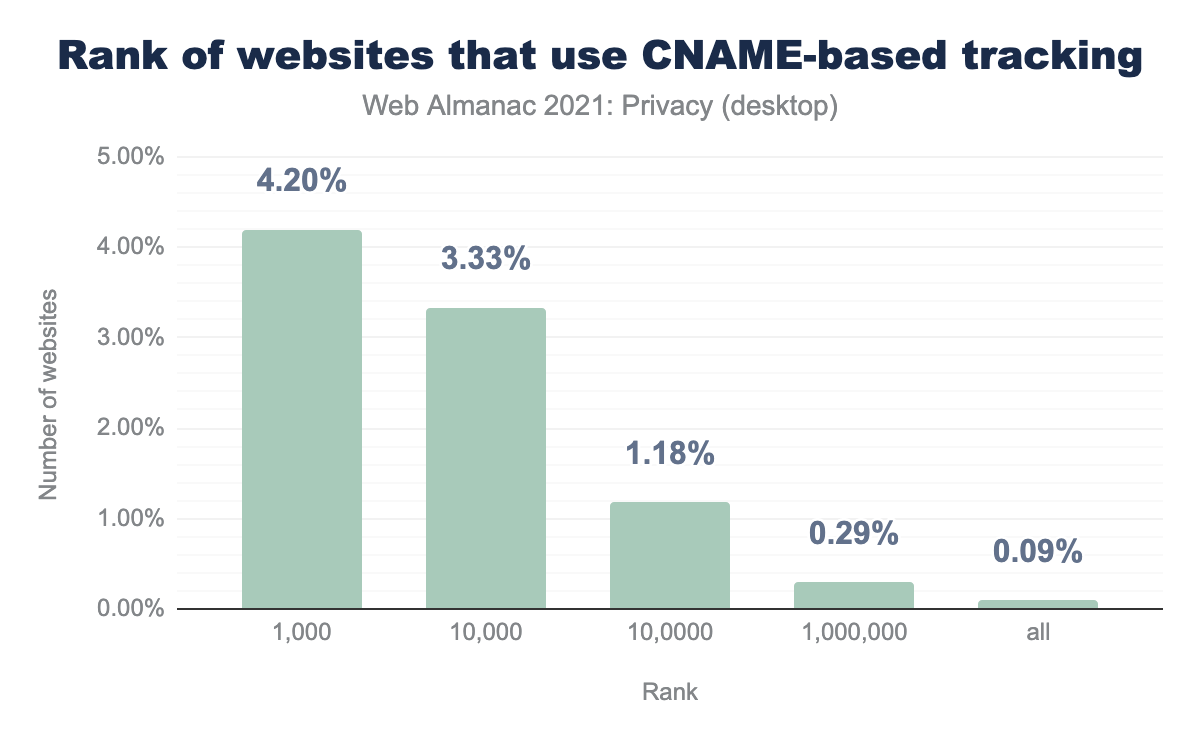
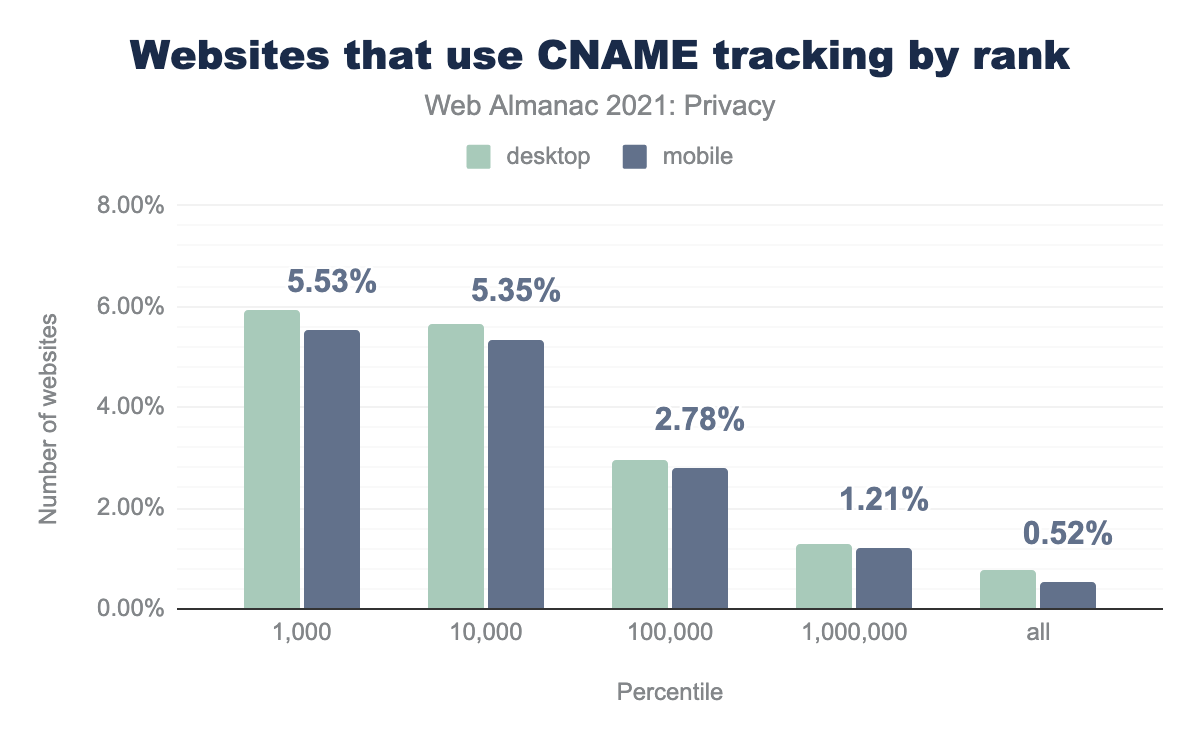
Change CNAME stats to be % based

diff --git a/src/content/en/2021/privacy.md b/src/content/en/2021/privacy.md
@@ -44,7 +44,7 @@ Online tracking is often done through third-party libraries. These libraries usu
 
 {{ figure_markup(
   image="most_common_trackers.png",
-  caption="10 most popular trackers and their prevalence",
+  caption="10 most popular trackers and their prevalenc.",
   description="Bar chart showing the 10 most popular trackers and the percentage of mobile and desktop websites that include them. Google_analytics (site_analytics) is used on 66.01% of desktop and 62.53% of mobile sites, google (advertising) on 50.89% and 49.51% respectively, doubleclick (advertising) on 49.99% and 47.51%, facebook (advertising) on 30.71% and 29.04%, google_adservices (advertising) on 21.17% and 19.98%, google_syndication (advertising) on 11.12% and 11.91%, wordpress_stats (site_analytics) on 6.63% and 6.79%, twitter (social_media) on 6.42% and 5.48%, adobe_audience_manager (advertising) on 4.35% and 5.49%, and finally yandex (advertising) on 4.50% and 5.28%.",
   chart_url="https://docs.google.com/spreadsheets/d/e/2PACX-1vRfOwcNkLp-mYBkmhDV5AFxl8p0ls9oxFnmmo0WUcAJxjxQqmHjquRZCWj_lNZRyFtX3RdH5T92IESu/pubchart?oid=290736860&format=interactive",
   sheets_gid="1466954359",
@@ -58,7 +58,7 @@ We see that Google-owned domains are prevalent in the online tracking market. Go
 
 {{ figure_markup(
   image="most_common_tracker_categories.png",
-  caption="Most common tracker categories",
+  caption="Most common tracker categorie.",
   description="Bar chart showing the most popular tracker categories and the number of websites embedding a tracker from that category. 83.33% of desktop sites and 82.08% of mobile sites us a tracker. `site_analytics` is used on 73.53% and 70.46% respectively, `advertising` on 68.83% and 67.99%, `social_media` on 12.89% and 11.66%, and finally `pornvertising` on 0.56% and 0.60%.",
   chart_url="https://docs.google.com/spreadsheets/d/e/2PACX-1vRfOwcNkLp-mYBkmhDV5AFxl8p0ls9oxFnmmo0WUcAJxjxQqmHjquRZCWj_lNZRyFtX3RdH5T92IESu/pubchart?oid=1126546581&format=interactive",
   sheets_gid="2084631443",
@@ -72,7 +72,7 @@ Overall, 82.08% of mobile sites and 83.33% of desktop sites include at least one
 
 {{ figure_markup(
   image="nb_websites_with_nb_trackers.png",
-  caption="The number of trackers per website",
+  caption="The number of trackers per websit.",
   description="Line chart showing the number of trackers per website starting at 15.62% of desktop sites and 16.31% of mobile sites having one tracker and curving down past 9.30% and 8.64% respectively for 5%, 0.38% and 0.41% for 15 trackers and then a long tail cut off at 0.12% and 0.15% for 25 trackers. Mobile and desktop have near identical numbers throughout.",
   chart_url="https://docs.google.com/spreadsheets/d/e/2PACX-1vRfOwcNkLp-mYBkmhDV5AFxl8p0ls9oxFnmmo0WUcAJxjxQqmHjquRZCWj_lNZRyFtX3RdH5T92IESu/pubchart?oid=268105548&format=interactive",
   sheets_gid="690197217",
@@ -102,7 +102,7 @@ Google's subsidiary DoubleClick takes the top spot by setting cookies on 31.4% o
 
 {{ figure_markup(
   image="top100_cookies_set_from_header.png",
-  caption="Top 10 cookies set from header",
+  caption="Top 10 cookies set from heade.",
   description="Chart showing the name of the cookies set on the largest number of websites. These cookies seem to be set more often on desktop sites than mobile. `test_cookie` for doubleclick.net is used by 30.20% of desktop sites and 28.66% of mobile sites, `fr` for facebook.com by 23.04% and 20.96% respectively, `IDE` for doubleclick.net by 18.03% and 16.96%, `NID` for google.com by 4.92% and 5.09%, `yandexuid` for yandex.ru by 4.38% and 5.14%, `yuidss` for yandex.ru by 4.38% and 5.14%, `i` for yandex.ru by 4.34% and 5.09%, `ymex` for yandex.ru by 4.32% and 5.08%, `yabs-sid` for yandex.ru by 4.32% and 5.08%, `TDID` for adsrvr.org by 3.71% and 3.89%.",
   chart_url="https://docs.google.com/spreadsheets/d/e/2PACX-1vRfOwcNkLp-mYBkmhDV5AFxl8p0ls9oxFnmmo0WUcAJxjxQqmHjquRZCWj_lNZRyFtX3RdH5T92IESu/pubchart?oid=2052032481&format=interactive",
   sheets_gid="1599373042",
@@ -126,7 +126,7 @@ Detecting fingerprinting is complex: it is effective through a combination of me
 
 {{ figure_markup(
   image="nb_websites_using_each_fingerprinting.png",
-  caption="Websites using each fingerprinting library",
+  caption="Websites using each fingerprinting librar.",
   description="Chart showing the percentage of websites that include each of the third-party fingerprinting libraries. FingerprintJS is used by 0.74% of desktop sites and 0.64% of mobile sites, ClientJS by 0.04% and 0.04% respectively, MaxMind by 0.03% and 0.02%, TruValidate by 0.03% and 0.02%, ThreatMetrix by 0.00% and 0.00%.",
   chart_url="https://docs.google.com/spreadsheets/d/e/2PACX-1vRfOwcNkLp-mYBkmhDV5AFxl8p0ls9oxFnmmo0WUcAJxjxQqmHjquRZCWj_lNZRyFtX3RdH5T92IESu/pubchart?oid=1537414997&format=interactive",
   sheets_gid="1785016530",
@@ -139,48 +139,45 @@ From the percentage of websites using these third-party services, we can see tha
 ### CNAME tracking
 
 Continuing with techniques that circumvent blocks on third-party tracking, <a hreflang="en" href="https://medium.com/nextdns/cname-cloaking-the-dangerous-disguise-of-third-party-trackers-195205dc522a">CNAME tracking</a> is a novel approach where a first-party subdomain masks the use of a third-party service using a CNAME record at the [DNS level](https://adguard.com/en/blog/cname-tracking.html). From the viewpoint of the browser, everything happens within a first-party context, so none of the third-party countermeasures are applied. Major tracking companies such as Adobe and Oracle are <a hreflang="en" href="https://sciendo.com/article/10.2478/popets-2021-0053">already offering CNAME tracking solutions</a> to their customers.
-For the results on CNAME-based tracking included in this chapter, we refer to [research](https://arxiv.org/pdf/2102.09301.pdf) completed by Y. Dimova and others where we developed a method to detect CNAME-based tracking, based on DNS data and request data from HTTP Archive. 
+For the results on CNAME-based tracking included in this chapter, we refer to [research](https://arxiv.org/pdf/2102.09301.pdf) completed by one of this chapters authors (and others) where we developed a method to detect CNAME-based tracking, based on DNS data and request data from HTTP Archive.
 
 {{ figure_markup(
   image="nb_sites_with_cname_tracking.png",
-  caption="Websites using CNAME-based tracking on a desktop client",
-  description="Chart showing the number of websites that use a CNAME-based tracker, ordered by the popularity of the tracker. Pardot is used on 6,619 sites, Adobe Experience Cloud on 2,671, Act-On Software on 869, Oracle Eloqua on 442, Eulerian on 213, Webtrekk on 101, Ingenious Technologies on 40, AT Internet on 34, Tracedock on 28, Wizaly on 15, Criteo on 15, and finally Keyade on 11.",
-  chart_url="https://docs.google.com/spreadsheets/d/e/2PACX-1vRfOwcNkLp-mYBkmhDV5AFxl8p0ls9oxFnmmo0WUcAJxjxQqmHjquRZCWj_lNZRyFtX3RdH5T92IESu/pubchart?oid=1887798671&format=interactive",
+  caption="Websites using CNAME-based tracking on a desktop clien.",
+  description="Chart showing the number of websites that use a CNAME-based tracker, ordered by the popularity of the tracker. Adobe Experience Cloud is used on 0.59% of desktop sites and 0.41% of mobile sites, Pardot on 0.41% and 0.26% respectively, Oracle Eloqua on 0.05% and 0.03%, Act-On Software on 0.05% and 0.03%, Webtrekk on 0.01% and 0.01%, and finally Eulerian on 0.01% and 0.01%.",
+  chart_url="https://docs.google.com/spreadsheets/d/e/2PACX-1vRfOwcNkLp-mYBkmhDV5AFxl8p0ls9oxFnmmo0WUcAJxjxQqmHjquRZCWj_lNZRyFtX3RdH5T92IESu/pubchart?oid=450379066&format=interactive",
   sheets_gid="1286114815",
   sql_file="nb_sites_with_cname_tracking.sql"
   )
 }}
 
+The most popular company performing CNAME-based tracking is Adobe, which is present on 0.59% of desktop websites, and 0.41% of mobile websites. Also notable in size is <a hreflang="en" href="https://www.pardot.com/">Pardot</a>, with 0.41% and 0.26% respectively.
 
-The most popular company performing CNAME-based tracking is <a hreflang="en" href="https://www.pardot.com/">Pardot</a>, which is present on 6,619 desktop websites. Also notable in size is Adobe, with 2,671 publisher domains.
-
-Those numbers may seem a small percentage of our 6.2 million websites crawled on desktop, but that opinion changes when segregating the data by site popularity.
+Those numbers may seem a small percentage, but that opinion changes when segregating the data by site popularity.
 
 {{ figure_markup(
   image="nb_sites_with_cname_tracking_per_rank.png",
-  caption="Number of desktop websites that use CNAME-based tracking according to their rank.",
-  description="Chart showing the number of websites that use CNAME-based tracking divided by their popularity rank on the desktop client. Of the top 1,000 sites, 4.20% use CNAME-based tracking, for the top 10,000 it's 3.33%, for top 10,0000 it's 1.18%, for the top million it's 0.29%, and finally for all sites it's 0.09%.",
-  chart_url="https://docs.google.com/spreadsheets/d/e/2PACX-1vRfOwcNkLp-mYBkmhDV5AFxl8p0ls9oxFnmmo0WUcAJxjxQqmHjquRZCWj_lNZRyFtX3RdH5T92IESu/pubchart?oid=1885483390&format=interactive",
+  caption="Websites that use CNAME tracking by rank.",
+  description="Chart showing the number of websites that use CNAME-based tracking split by their popularity rank. Of the top 1,000 sites, 5.91% of desktop sites, and 5.53% of mobile sites use CNAME-based tracking, for the top 10,000 it's 5.67% and 5.35%, for top 100,0000 it's 2.95% and 2.78%, for the top million it's 1.31% and 1.21%, and finally for all sites it's 0.79 and 0.52%.",
+  chart_url="https://docs.google.com/spreadsheets/d/e/2PACX-1vRfOwcNkLp-mYBkmhDV5AFxl8p0ls9oxFnmmo0WUcAJxjxQqmHjquRZCWj_lNZRyFtX3RdH5T92IESu/pubchart?oid=2129255642&format=interactive",
   sheets_gid="518784663",
   sql_file="nb_sites_with_cname_tracking_per_rank.sql"
   )
 }}
 
-
-When we look at the rank of the websites that use CNAME-based tracking, we see that 4.20% of the top 1,000 websites embed a CNAME tracker. In the top 10,000, that number falls to 3.33% of websites.
+When we look at the rank of the websites that use CNAME-based tracking, we see that 5.53% of the top 1,000 websites on mobile embed a CNAME tracker. In the top 100,000, that number falls to 2.78% of websites, and when looking at the full data set it falls to 0.52%.
 
 {{ figure_markup(
   image="nb_sites_with_cname_tracking_per_public_suffix.png",
-  caption="Number of desktop websites with public suffix that use CNAME-based tracking",
-  description="Chart showing the number of websites that use CNAME-based tracking on a desktop client, according to the public suffix of the website. `com` for 6,751 sites, `co.jp` for 656 sites, `org` for 476 sites, `jp` for 363 sites, `com.au` for 297 sites, `ca` for 247 sites, `co.uk` for 188 sites, `de` for 160 sites, `net` for 153 sites, and `fr` for 132.",
-  chart_url="https://docs.google.com/spreadsheets/d/e/2PACX-1vRfOwcNkLp-mYBkmhDV5AFxl8p0ls9oxFnmmo0WUcAJxjxQqmHjquRZCWj_lNZRyFtX3RdH5T92IESu/pubchart?oid=432551848&format=interactive",
+  caption="Public suffix of sites with CNAME-based tracking.",
+  description="Chart showing the number of websites that use CNAME-based tracking on a desktop client, according to the public suffix of the website. 0.64% of desktop websites and 0.42% of mobile websites with a `com` suffix use CNAME track, for `edu` it's 0.18% and 0.10% respectively, for `jp` it's 0.03% and 0.04%, for `org` 0.04% and 0.03%, for `co.jp` 0.03% and 0.02%, for `ca` 0.02% and 0.01%, for `de` 0.02% and 0.02%, for `ru` 0.01% and 0.01%, for `com.au` 0.02% and 0.01%, and finally for `edu.au` 0.02% and 0.01%.",
+  chart_url="https://docs.google.com/spreadsheets/d/e/2PACX-1vRfOwcNkLp-mYBkmhDV5AFxl8p0ls9oxFnmmo0WUcAJxjxQqmHjquRZCWj_lNZRyFtX3RdH5T92IESu/pubchart?oid=1816699194&format=interactive",
   sheets_gid="1155429637",
   sql_file="nb_sites_with_cname_tracking_per_public_suffix.sql"
   )
 }}
 
-
-Apart from the `.com` suffix, a large number of the websites using CNAME-based tracking have a `.jp` domain. Also, a notable amount of CNAME trackers are prevalent on `.uk` and `.fr` websites.
+Apart from the `.com` suffix, a large number of the websites using CNAME-based tracking have a `.edu` domain. Also, a notable amount of CNAME trackers are prevalent on `.jp` and `.org` websites.
 
 CNAME-based tracking can be a counter measure to when the user might have enabled tracking protection against third-party tracking. Since few tracker-blocking tools and <a hreflang="en" href="https://www.cookiestatus.com/">browsers</a> have already implemented a defense against CNAME tracking, it is prevalent on a number of websites up to date.
 
@@ -190,7 +187,7 @@ Advertisement retargeting refers to the practice of keeping track of the product
 
 {{ figure_markup(
   image="nb_websites_using_each_retargeting.png",
-  caption="Percentage of pages using a retargeting service",
+  caption="Percentage of pages using a retargeting servic.",
   description="Bar chart showing the most popular services used for retargeting and the number of websites that use them. Google Remarketing Tag is used by 26.92% of desktop sites and 26.64% of mobile sites, Criteo by 1.25% and 1.21% respectively, AdRoll by 0.48% and 0.38%, SharpSpring Ads by 0.12% and 0.09%, Albacross by 0.04% and 0.03%, SteelHouse by 0.03% and 0.02%, Smarter Click by 0.02% and 0.01%, Blue by 0.02% and 0.01%, Cross Pixel by 0.02% and 0.01%, and finally Picreel by 0.01% and 0.01%",
   chart_url="https://docs.google.com/spreadsheets/d/e/2PACX-1vRfOwcNkLp-mYBkmhDV5AFxl8p0ls9oxFnmmo0WUcAJxjxQqmHjquRZCWj_lNZRyFtX3RdH5T92IESu/pubchart?oid=882622568&format=interactive",
   sheets_gid="1940290757",
@@ -215,7 +212,7 @@ Sensors can be useful to make a website more interactive but could also be abuse
 
 {{ figure_markup(
   image="nb_websites_with_device_sensor_events.png",
-  caption="5 most used sensor events",
+  caption="5 most used sensor event.",
   description="Bar chart showing the most widely accessed sensor events, based on the use of JavaScript listeners. `deviceOrientation` is found on 3.32% of desktop sites and 3.23% of mobile sites, `deviceReady` on 1.12% and 1.23%, `devicemotion` on 0.65% and 0.66%, `deviceChange` on 0.03% and 0.02%, and finally `deviceproximity` on 0.03% and 0.02%.",
   chart_url="https://docs.google.com/spreadsheets/d/e/2PACX-1vRfOwcNkLp-mYBkmhDV5AFxl8p0ls9oxFnmmo0WUcAJxjxQqmHjquRZCWj_lNZRyFtX3RdH5T92IESu/pubchart?oid=40988621&format=interactive",
   sheets_gid="1513080238",
@@ -244,7 +241,7 @@ Geolocation services provide GPS and other location data (such as [IP address](h
 
 {{ figure_markup(
   image="nb_websites_using_each_geolocation.png",
-  caption="Percentage of websites that use geolocation services",
+  caption="Percentage of websites that use geolocation service.",
   description="Chart that shows the percentage of websites using each of the geolocation service libraries. ipify is used by 0.09% of desktop sites and 0.07% of mobile sites, MaxMind by 0.03% and 0.02% respectively, db-ip by 0.01% and 0.01%, and finally ipstack by 0.01% and 0.01%.",
   chart_url="https://docs.google.com/spreadsheets/d/e/2PACX-1vRfOwcNkLp-mYBkmhDV5AFxl8p0ls9oxFnmmo0WUcAJxjxQqmHjquRZCWj_lNZRyFtX3RdH5T92IESu/pubchart?oid=2115506749&format=interactive",
   sheets_gid="1274602607",
@@ -256,7 +253,7 @@ We find that the most popular service, <a hreflang="en" href="https://www.ipify.
 
 {{ figure_markup(
   image="nb_websites_with_geolocation_blink_usage.png",
-  caption="Percentage of websites that use geolocation features",
+  caption="Percentage of websites that use geolocation feature.",
   description="Bar chart that shows the percentage of websites using each geolocation feature. `GeolocationGetCurrentPosition` is used by 0.59% of desktop sites and 0.63% of mobile sites, `GeolocationSecureOrigin` by 0.59% and 0.62% respectively, `GeolocationInsecureOrigin` by 0.01% and 0.02%, `GeolocationWatchPosition` by 0.02% and 0.02%, `GeolocationSecureOriginIframe` by 0.02% and 0.02%, `GeolocationDisabledByFeaturePolicy` by 0.02% and 0.01%, and finally `GeolocationInsecureOriginIframe` by 0.00% and 0.01%.",
   chart_url="https://docs.google.com/spreadsheets/d/e/2PACX-1vRfOwcNkLp-mYBkmhDV5AFxl8p0ls9oxFnmmo0WUcAJxjxQqmHjquRZCWj_lNZRyFtX3RdH5T92IESu/pubchart?oid=1513111756&format=interactive",
   sheets_gid="1110372680",
@@ -274,7 +271,7 @@ Poor security management within a company can have a significant impact on its c
 
 {{ figure_markup(
   image="data_breaches_pwned_accounts_per_class.png",
-  caption="Number of impacted accounts in breaches per data class",
+  caption="Number of impacted accounts in breaches per data clas.",
   description="Bar chart showing the number of user accounts involved in data breaches, according to the data class that leaked in the breach. 641 million Email addresses were included in breaches, 428 million Passwords, 369 million Names, 173 million Geographic locations, 149 million Phone numbers, 149 million Genders, 134 million Social media profiles, 127 million Education levels, 126 million Job titles, and finally 110 million Physical addresses.",
   chart_url="https://docs.google.com/spreadsheets/d/e/2PACX-1vRfOwcNkLp-mYBkmhDV5AFxl8p0ls9oxFnmmo0WUcAJxjxQqmHjquRZCWj_lNZRyFtX3RdH5T92IESu/pubchart?oid=1612339126&format=interactive",
   sheets_gid="1158689200",
@@ -294,7 +291,7 @@ The <a hreflang="en" href="https://www.w3.org/TR/permissions-policy-1/">Permissi
 
 {{ figure_markup(
   image="most_common_featurepolicy_permissionspolicy_directives.png",
-  caption="Number of websites accessing a feature policy directive",
+  caption="Number of websites accessing a feature policy directiv.",
   description="Bar chart showing the most common directives used to define the feature policy and the number of websites that are using them. `geolocation` is used by 2,222 desktop sites and 2,323 mobile sites, `microphone` by 2,199 and 2,310 respectively, `camera` by 2,082 and 2,197, `payment` by 1,748 and 1,879, `usb` by 1,354 and 1,492, `gyroscope` by 1,145 and 1,025, `magnetometer` by 1,141 and 1,024, `interest-cohort` by 1,037 and 1,019, `fullscreen` by 940 and 873, `accelerometer` by 892 and 852.",
   chart_url="https://docs.google.com/spreadsheets/d/e/2PACX-1vRfOwcNkLp-mYBkmhDV5AFxl8p0ls9oxFnmmo0WUcAJxjxQqmHjquRZCWj_lNZRyFtX3RdH5T92IESu/pubchart?oid=820718961&format=interactive",
   sheets_gid="899874026",
@@ -310,7 +307,7 @@ To gain a deeper understanding of how the directives are used, we looked at the 
 
 {{ figure_markup(
   image="most_common_featurepolicy_permissionspolicy_directive_values.png",
-  caption="Values used for the most popular feature policy directives",
+  caption="Values used for the most popular feature policy directive.",
   description="Bar chart showing the distribution of the values assigned to the 3 most popular directives for the feature policy. `microphone` is set to `self` for 0.08% of mobile sites, it is set to `none` for 0.49% of sites, and is set to `*` for 0.03% of sites. `geolocation` is set to `self` for 0.17% of mobile sites, it is set to `none` for 0.34% of sites, and is set to `*` for 0.05% of sites. `camera` is set to `self` for 0.09% of mobile sites, it is set to `none` for 0.46% of sites, and is set to `*` for 0.03% of sites.",
   chart_url="https://docs.google.com/spreadsheets/d/e/2PACX-1vRfOwcNkLp-mYBkmhDV5AFxl8p0ls9oxFnmmo0WUcAJxjxQqmHjquRZCWj_lNZRyFtX3RdH5T92IESu/pubchart?oid=280518522&format=interactive",
   sheets_gid="436267650",
@@ -333,7 +330,7 @@ The `Referer` value can be insightful. But when the full URL including the path 
 
 {{ figure_markup(
   image="nb_websites_with_referrerpolicy.png",
-  caption="Percentage of websites that specify a Referrer Policy",
+  caption="Percentage of websites that specify a Referrer Polic.",
   description="Bar chart showing the percentage of websites that use a Referrer Policy according to how the websites specified the policy. Any referrer policy is set on 11.12% of desktop and 10.38% of mobile sites, Entire document policy on 9.66% and 8.68%, Entire document policy header on 7.37% and 6.49%, Entire document policy meta on 2.65% and 2.51%, Any individual requests on 1.92% and 2.10%, Any link relations on 0.00% and 0.00%",
   chart_url="https://docs.google.com/spreadsheets/d/e/2PACX-1vRfOwcNkLp-mYBkmhDV5AFxl8p0ls9oxFnmmo0WUcAJxjxQqmHjquRZCWj_lNZRyFtX3RdH5T92IESu/pubchart?oid=2144839216&format=interactive",
   sheets_gid="1720798838",
@@ -345,7 +342,7 @@ A first point to note is that most sites do not explicitly set a Referrer Policy
 
 {{ figure_markup(
   image="most_common_referrerpolicy_values.png",
-  caption="Percentage of pages using Referrer Policy values",
+  caption="Percentage of pages using Referrer Policy value.",
   description="Bar chart showing the percentage of pages that use each Referrer Policy value. `no-referrer-when-downgrade` is used on 3.63% of desktop sites and 3.31% of mobile sites, `strict-origin-when-cross-origin` on 1.95% and 1.56% respectively, `always` on 1.08% and 0.82%, `unsafe-url` on 0.47% and 0.52%, `same-origin` on 0.51% and 0.44%, `origin` on 0.39% and 0.51%, `no-referrer` on 0.34% and 0.31%, `origin-when-cross-origin` on 0.31% and 0.29%, `strict-origin` on 0.26% and 0.23%, and finally `no-referrer, strict-origin-when-cross-origin` on 0.09% and 0.08%.",
   chart_url="https://docs.google.com/spreadsheets/d/e/2PACX-1vRfOwcNkLp-mYBkmhDV5AFxl8p0ls9oxFnmmo0WUcAJxjxQqmHjquRZCWj_lNZRyFtX3RdH5T92IESu/pubchart?oid=406890714&format=interactive",
   sheets_gid="1846818406",
@@ -371,7 +368,7 @@ Servers can indicate their support for these Client Hints by specifying the `Acc
 
 {{ figure_markup(
   image="nb_websites_with_user_agent_client_hints.png",
-  caption="Percentage of pages that use user agent Client Hints",
+  caption="Percentage of pages that use user agent Client Hint.",
   description="Bar chart showing the percentage of pages that use user agent Client Hints according to the rank of the website. For the top 1,000 websites it's 3.67% on desktop and 3.56% on mobile, for the top 10,000 it's 1.35% and 1.44% respectively, for the top 100,000 it's 0.40% and 0.42%, for the top 1,000,000 it's 0.14% and 0.15%, and finally for the all sites it's 0.15% and 0.20%.",
   chart_url="https://docs.google.com/spreadsheets/d/e/2PACX-1vRfOwcNkLp-mYBkmhDV5AFxl8p0ls9oxFnmmo0WUcAJxjxQqmHjquRZCWj_lNZRyFtX3RdH5T92IESu/pubchart?oid=2107002085&format=interactive",
   sheets_gid="190615661",
@@ -391,7 +388,7 @@ Therefore, websites turned to the use of cookie consent banners, privacy policie
 
 {{ figure_markup(
   image="nb_websites_with_cmp.png",
-  caption="Percentage of websites that use a Consent Management Platform",
+  caption="Percentage of websites that use a Consent Management Platfor.",
   description="Bar chart showing the percentage of websites that use a third-party library for consent management. 7.10% of desktop sites and 6.97% of mobile sites use a CMP.",
   chart_url="https://docs.google.com/spreadsheets/d/e/2PACX-1vRfOwcNkLp-mYBkmhDV5AFxl8p0ls9oxFnmmo0WUcAJxjxQqmHjquRZCWj_lNZRyFtX3RdH5T92IESu/pubchart?oid=246947280&format=interactive",
   sheets_gid="147308043",
@@ -403,7 +400,7 @@ Consent Management Platforms (CMPs) are third-party libraries that websites can 
 
 {{ figure_markup(
   image="nb_websites_using_each_cmp.png",
-  caption="10 most popular consent management platforms",
+  caption="10 most popular consent management platform.",
   description="Bar chart showing the percentage of pages using the 10 most popular third-party libraries for providing consent management. CookieYes is used on 1.65% of desktop sites and 1.70% of mobile sites, Osano on 1.64% and 1.59% respectively, OneTrust on 0.90% and 0.73%, Cookiebot on 0.74% and 0.64%, AdRoll CMP System on 0.50% and 0.36%, iubenda on 0.34% and 0.35%, Quantcast Choice on 0.37% and 0.34%, Didomi on 0.29% and 0.24%, Usercentrics on 0.18% and 0.19%, and finally HubSpot Cookie Policy Banner on 0.26% and 0.17%.
 ",
   chart_url="https://docs.google.com/spreadsheets/d/e/2PACX-1vRfOwcNkLp-mYBkmhDV5AFxl8p0ls9oxFnmmo0WUcAJxjxQqmHjquRZCWj_lNZRyFtX3RdH5T92IESu/pubchart?oid=619927070&format=interactive",
@@ -424,7 +421,7 @@ TCF is meant as a GDPR-compliant mechanism in Europe, although [a recent decisio
 
 {{ figure_markup(
   image="nb_websites_with_iab.png",
-  caption="Percentage of websites using IAB compliance frameworks",
+  caption="Percentage of websites using IAB compliance framework.",
   description="Bar chart showing the percentage of websites using each compliance framework of both IAB Europe and US. IAB TCF v1 is used on 0.35% of desktop and 0.30% of mobile sites, IAB TCF v2 on 1.58% and 1.49% respectively, IAB TCF any on 1.67% and 1.57%, IAB USP on 3.13% and 3.19%, IAB USP on 3.13% and 3.19%, and finally IAB any on 3.92% and 3.97%.",
   chart_url="https://docs.google.com/spreadsheets/d/e/2PACX-1vRfOwcNkLp-mYBkmhDV5AFxl8p0ls9oxFnmmo0WUcAJxjxQqmHjquRZCWj_lNZRyFtX3RdH5T92IESu/pubchart?oid=1697790298&format=interactive",
   sheets_gid="1662197018",
@@ -436,7 +433,7 @@ Above, we show the distribution of the usage of both versions of TCF and of USP.
 
 {{ figure_markup(
   image="most_common_cmps_for_iab_tcf_v2.png",
-  caption="10 most popular consent management platforms for IAB ",
+  caption="10 most popular consent management platforms for IAB.",
   description="Bar chart showing the 10 most popular consent management platforms used for IAB's compliance frameworks. Quantcast is used on 0.31 of desktop sites and 0.33% of mobile sites, Didomi on 0.29% and 0.24% respectively, Wikia, Inc. on 0.23% and 0.19%, Google LLC on 0.08% and 0.09%, SIRDATA on 0.06% and 0.08%, iubenda on 0.07% and 0.07%, OneTrust LLC on 0.05% and 0.06%, Sourcepoint on 0.05% and 0.05%, consentmanager.net on 0.03% and 0.02%, and finally LiveRamp on 0.02% and 0.01%.",
   chart_url="https://docs.google.com/spreadsheets/d/e/2PACX-1vRfOwcNkLp-mYBkmhDV5AFxl8p0ls9oxFnmmo0WUcAJxjxQqmHjquRZCWj_lNZRyFtX3RdH5T92IESu/pubchart?oid=2085725571&format=interactive",
   sheets_gid="692122193",
@@ -450,7 +447,7 @@ In the USP framework, the website's and user's privacy settings are encoded in a
 
 {{ figure_markup(
   image="most_common_strings_for_iab_usp.png",
-  caption="Percentage of websites using IAB US privacy strings",
+  caption="Percentage of websites using IAB US privacy string.",
   description="Bar chart showing the percentage of websites that use each privacy string for IAB's USP consent framework. `1---` is used by 0.87% of desktop websites and 0.80% of mobile websites, `1YNY` is 0.72% and 0.64% respectively, `1YNN` is 0.07% and 0.06%, and blank is 0.01% and 0.00%.",
   chart_url="https://docs.google.com/spreadsheets/d/e/2PACX-1vRfOwcNkLp-mYBkmhDV5AFxl8p0ls9oxFnmmo0WUcAJxjxQqmHjquRZCWj_lNZRyFtX3RdH5T92IESu/pubchart?oid=2039463193&format=interactive",
   sheets_gid="1524219137",
@@ -483,7 +480,7 @@ The <a hreflang="en" href="https://www.eff.org/issues/do-not-track">Do Not Track
 
 {{ figure_markup(
   image="nb_websites_with_dnt_blink_usage.png",
-  caption="Percentage of websites using Do Not Track (DNT)",
+  caption="Percentage of websites using Do Not Track (DNT.",
   description="Bar chart showing the percentage of websites that access the value of DNT by using the `NavigatorDoNotTrack` feature. 17.37% of desktop sites and 17.39% of mobile sites access this. ",
   chart_url="https://docs.google.com/spreadsheets/d/e/2PACX-1vRfOwcNkLp-mYBkmhDV5AFxl8p0ls9oxFnmmo0WUcAJxjxQqmHjquRZCWj_lNZRyFtX3RdH5T92IESu/pubchart?oid=1302428398&format=interactive",
   sheets_gid="485103492",
@@ -525,7 +522,7 @@ Individual users and websites could opt out of being included in the cohort calc
 
 {{ figure_markup(
   image="nb_websites_with_floc_opt_out.png",
-  caption="Percentages of websites that opt out of FLoC cohorts",
+  caption="Percentages of websites that opt out of FLoC cohort.",
   description="Bar chart showing the percentage of pages that opt out of FLoC cohorts, according to the rank of the website. Of the top 1,000 sites 3.29% of desktop sites and 4.10% of mobile sites opt out, for the top 10,000 it's 1.10% and 1.26% respectively, for the top 100,000 it's 0.64% and 0.67%, for the top million it's 0.69% and 0.69%, for all it's 0.95% and 0.86%.",
   chart_url="https://docs.google.com/spreadsheets/d/e/2PACX-1vRfOwcNkLp-mYBkmhDV5AFxl8p0ls9oxFnmmo0WUcAJxjxQqmHjquRZCWj_lNZRyFtX3RdH5T92IESu/pubchart?oid=129384991&format=interactive",
   sheets_gid="637590731",
@@ -551,7 +548,7 @@ The <a hreflang="en" href="https://developer.chrome.com/docs/privacy-sandbox/att
 
 {{ figure_markup(
   image="same_party_cookie_attribute.png",
-  caption="Percentage of cookies with the SameParty cookie attribute",
+  caption="Percentage of cookies with the SameParty cookie attribut.",
   description="Bar chart showing the percentage of cookies with the SameParty cookie attribute according to the request context. For first-party cookies `SameParty` is used on 38 desktop sites and 73 mobile sites for third-party cookies it's 2,527 for desktop sites and 1,805 mobile sites.",
   chart_url="https://docs.google.com/spreadsheets/d/e/2PACX-1vRfOwcNkLp-mYBkmhDV5AFxl8p0ls9oxFnmmo0WUcAJxjxQqmHjquRZCWj_lNZRyFtX3RdH5T92IESu/pubchart?oid=935824621&format=interactive",
   sheets_gid="858972835",
